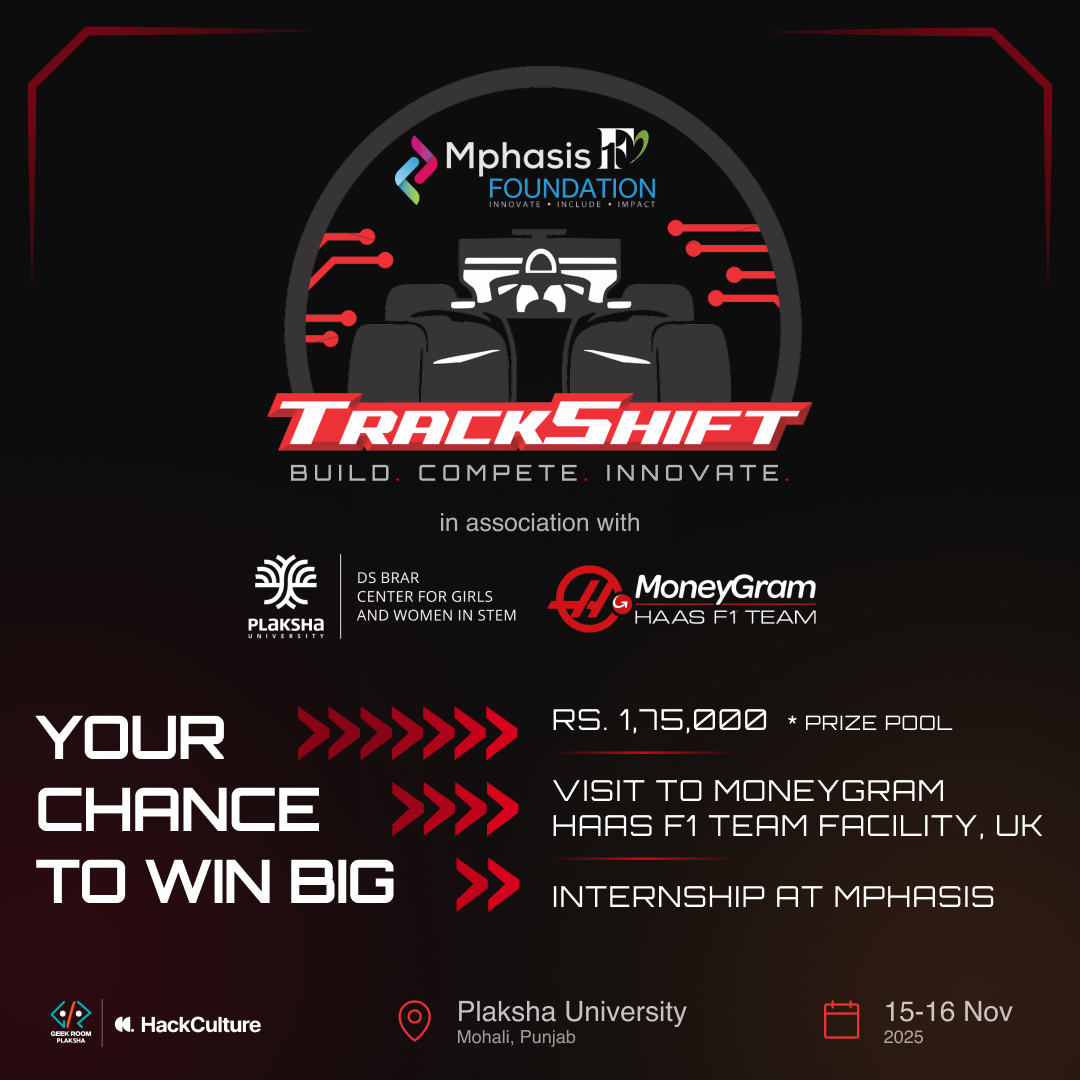
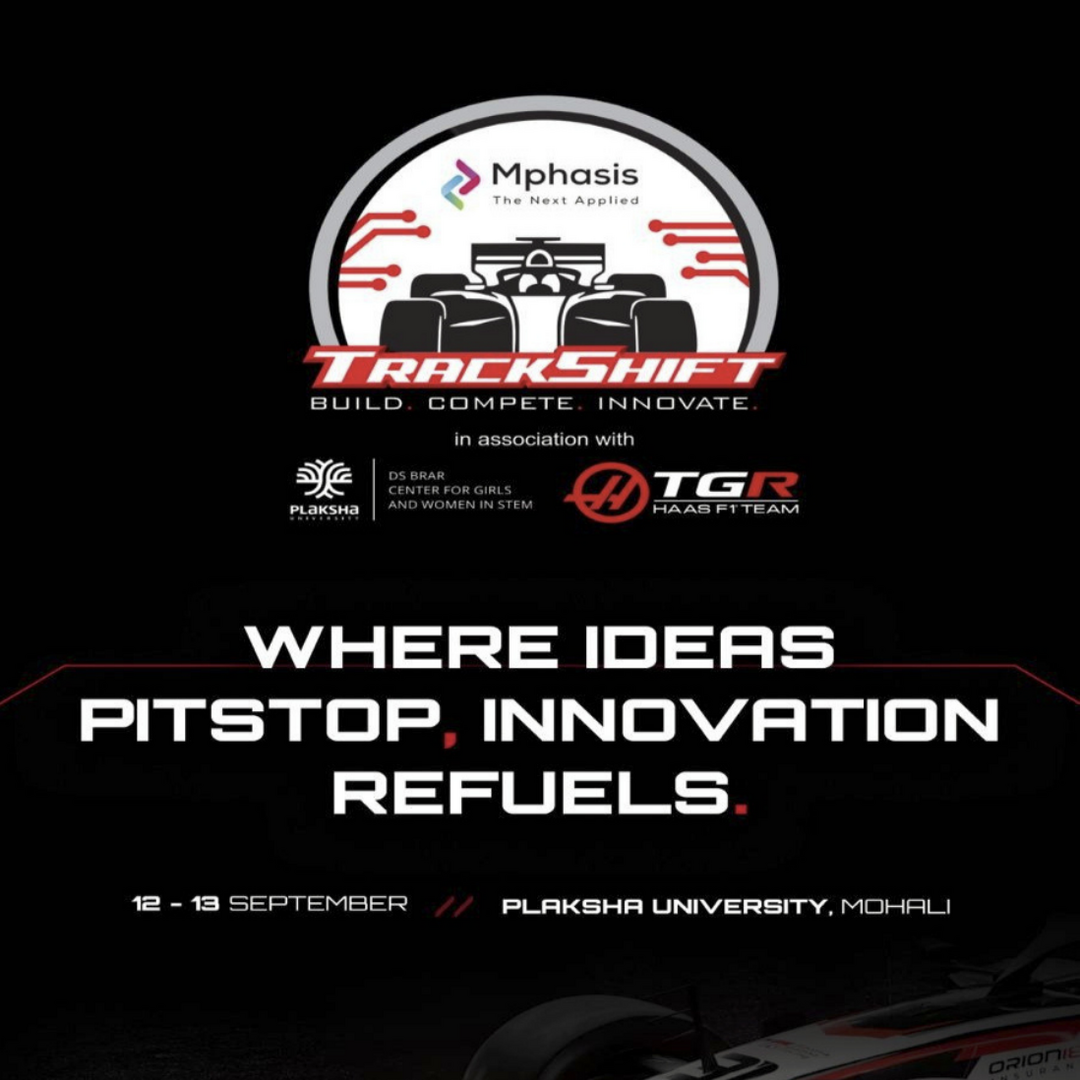
fix(events): update TrackShift link to hackculture, swap poster, note no Prayas link
- TrackShift 2026: externalUrl now points to
  https://hackculture.io/challenges/trackshift-2026
- TrackShift poster: replaced with the official 2026 poster
  (square-cropped from the supplied 1098x1555 PDF — top portion
  preserves the TRACKSHIFT title, tagline, dates, and venue).
  The original was portrait; cropped to fit the 1:1 event grid.
- Prayas: no registrationLink or externalUrl — registration
  not open yet. Added a code comment to flag this.

diff --git a/components/eventPage/Data/EventData.js b/components/eventPage/Data/EventData.js
@@ -4,7 +4,7 @@ const staticEventsData = [
     title: "TrackShift 2026",
     isHack: true,
     isSlug: false, // External redirect — no internal detail page
-    externalUrl: "https://trackshift.in",
+    externalUrl: "https://hackculture.io/challenges/trackshift-2026",
     shortDescription:
       "India's premier applied innovation challenge — a 24-hour hackathon merging motorsport's precision with AI, sustainability, and mobility. Organised by DS Brar Center for GWiST at Plaksha University in collaboration with TGR Haas F1 Team, Mphasis Foundation, and HackCulture.",
     thumbnail: "/images/events/trackshift/poster.png",
@@ -18,6 +18,7 @@ const staticEventsData = [
     title: "Prayas",
     isHack: true,
     isSlug: true,
+    // No registrationLink or externalUrl — registration not open yet.
     shortDescription:
       "Plaksha's inter-college tech fest — a joint initiative by all the tech clubs on campus. Geek Room Plaksha collaborates with LEAP and GWiST to bring students from across the country together for two days of competition, collaboration, and discovery.",
     thumbnail: "/images/events/prayas/poster.png",
